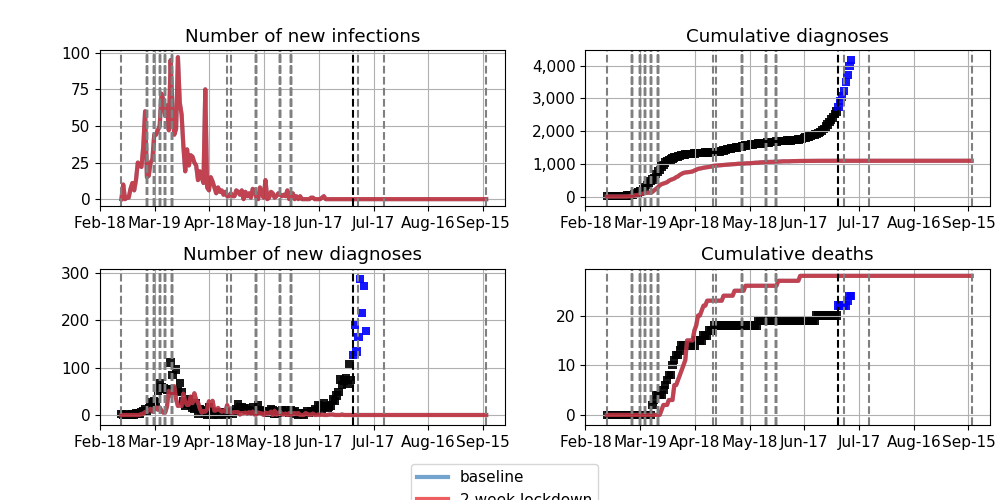
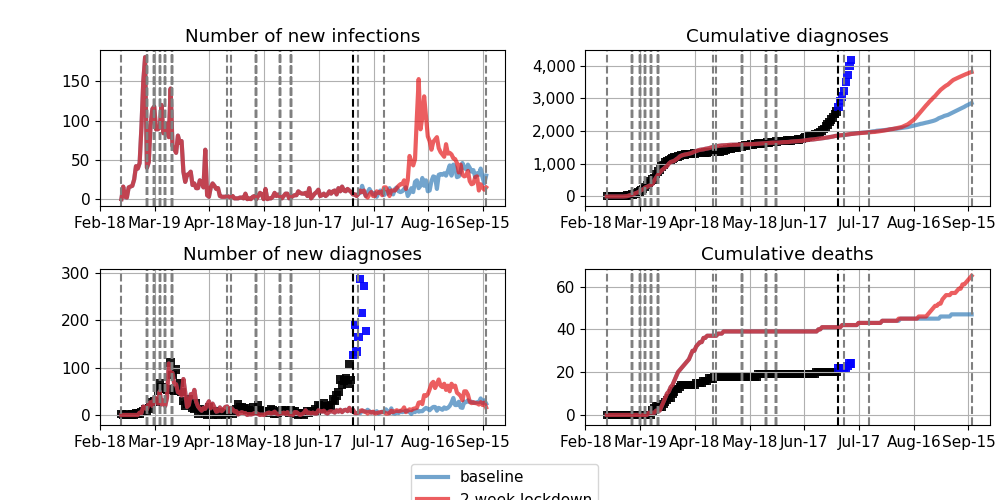
some progress

diff --git a/applications/NSW/run_nsw.py b/applications/NSW/run_nsw.py
@@ -11,7 +11,7 @@ import numpy as np
 import sys
 
 
-def load_packages():
+def load_policies():
     """
     Load policy packages from Excel file
     """
@@ -78,7 +78,7 @@ def make_people(seed=None, params=None, savepeople=True, popfile='nswppl.pop', s
     return people, popdict
 
 
-def make_sim(seed=None, params=None, load_pop=True, popfile='nswppl.pop', popdict='nswpopdict.pop'):
+def make_sim(seed=None, params=None, load_pop=True, popfile='nswppl.pop', popdict='nswpopdict.pop', policies=None):
     # setup simulation for this location
     sim = cv.Sim(pars=params.pars,
                  datafile=None,
@@ -90,16 +90,16 @@ def make_sim(seed=None, params=None, load_pop=True, popfile='nswppl.pop', popdic
     # Add interventions
     sim.pars['interventions'].append(policy_updates.UpdateNetworks(layers=params.dynamic_lkeys, contact_numbers=params.pars['contacts'], popdict=popdict))
 
-    # SET BETA POLICIES
+    # Beta policies
     beta_schedule = policy_updates.PolicySchedule(params.pars["beta_layer"], params.policies['beta_policies'])  # create policy schedule with beta layer adjustments
-    for policy in scen_policies:
+    for policy in policies:
         if policy in beta_schedule.policies:
             if sim['verbose']:
                 print(f'Adding beta policy {policy}')
             beta_schedule.start(policy, 0)
     sim.pars['interventions'].append(beta_schedule)
 
-    # SET TESTING
+    # Testing
     sim.pars['interventions'].append(cv.test_num(daily_tests=params.extrapars["future_daily_tests"],
                                                  symp_test=params.extrapars['symp_test'],
                                                  quar_test=params.extrapars['quar_test'],
@@ -107,7 +107,7 @@ def make_sim(seed=None, params=None, load_pop=True, popfile='nswppl.pop', popdic
                                                  test_delay=params.extrapars['test_delay'],
                                                  loss_prob=params.extrapars['loss_prob']))
 
-    # SET TRACING
+    # Tracing
     sim.pars['interventions'].append(cv.contact_tracing(trace_probs=params.extrapars['trace_probs'],
                                                         trace_time=params.extrapars['trace_time'],
                                                         start_day=0))
@@ -117,9 +117,9 @@ def make_sim(seed=None, params=None, load_pop=True, popfile='nswppl.pop', popdic
     if id_checks is not None:
         sim.pars['interventions'].append(id_checks)
 
-    # SET CLIPPING POLICIES
+    # Clipping
     for policy, clip_attributes in params.policies['clip_policies'].items():
-        if policy in scen_policies:
+        if policy in policies:
             if sim['verbose']:
                 print(f'Adding clipping policy {policy}')
             sim.pars['interventions'].append(cv.clip_edges(days=0,
@@ -131,18 +131,41 @@ def make_sim(seed=None, params=None, load_pop=True, popfile='nswppl.pop', popdic
     return sim
 
 
-def run_sim(seed=None, params=None, load_pop=True, popfile='nswppl.pop'):
+def run_sim(seed=None, params=None, load_pop=True, popfile='nswppl.pop', popdict='nswpopdict.pop', policies=None):
     """
     Run a single outbreak simulation
     """
 
-    sim = make_sim(seed, params, load_pop=load_pop, popfile=popfile)
+    sim = make_sim(seed=seed, params=params, load_pop=load_pop, popfile=popfile, popdict=popdict, policies=policies)
     sim.run()
     return sim
 
 
 T = sc.tic()
 params = make_pars(location='NSW', pop_size=100e3, pop_infected=150)
+policies = load_policies()
+popdict = sc.loadobj('nswpopdict.pop')
 # people, popdict = make_people(seed=1, params=params, savepeople=True, popfile='nswppl.pop', savepopdict=True, popdictfile='nswpopdict.pop')
-sim = run_sim(seed=1, params=params, load_pop=True, popfile='nswppl.pop')
+sim = run_sim(seed=1, params=params, load_pop=True, popfile='nswppl.pop', popdict=popdict, policies=policies)
+
+# Plotting
+to_plot = sc.objdict({
+    'Diagnoses': ['cum_diagnoses'],
+    'Daily diagnoses': ['new_diagnoses'],
+    'Deaths': ['cum_deaths'],
+    'Daily deaths': ['new_deaths'],
+    'Total infections': ['cum_infections'],
+    'Cumulative tests': ['cum_tests'],
+    'New infections per day': ['new_infections'],
+    'New tests': ['new_tests'],
+    })
+
+
+sim.plot(to_plot=to_plot, do_save=True, do_show=False, fig_path=f'nsw_calibration.png',
+         legend_args={'loc': 'upper left'}, axis_args={'hspace':0.4}, interval=21)
+
+#if do_save:
+#    sim.save(f'nigeria_{which}_{length}.sim')
+
+
 sc.toc(T)
